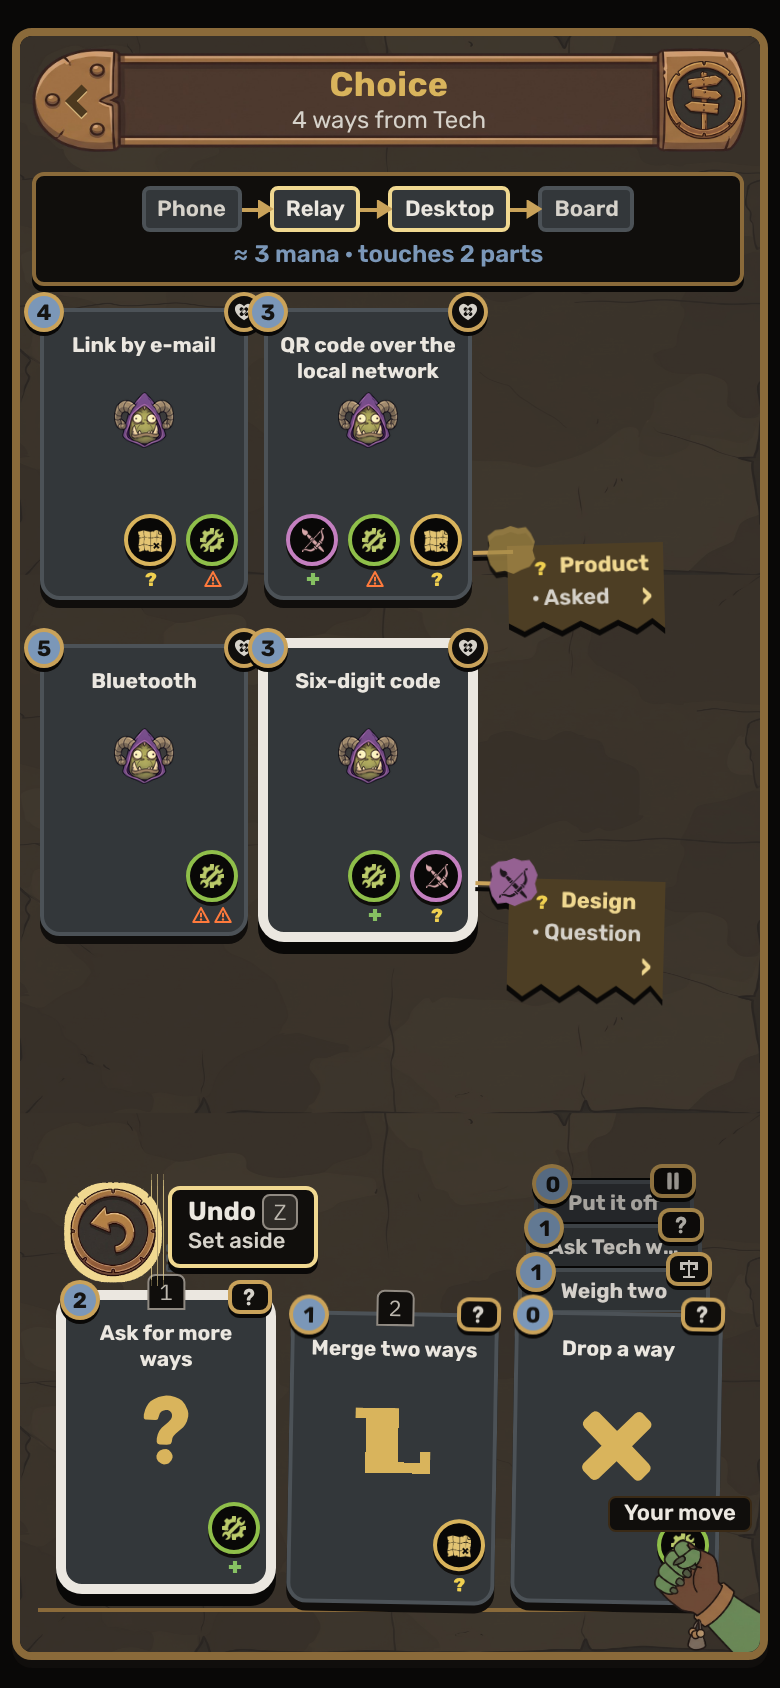
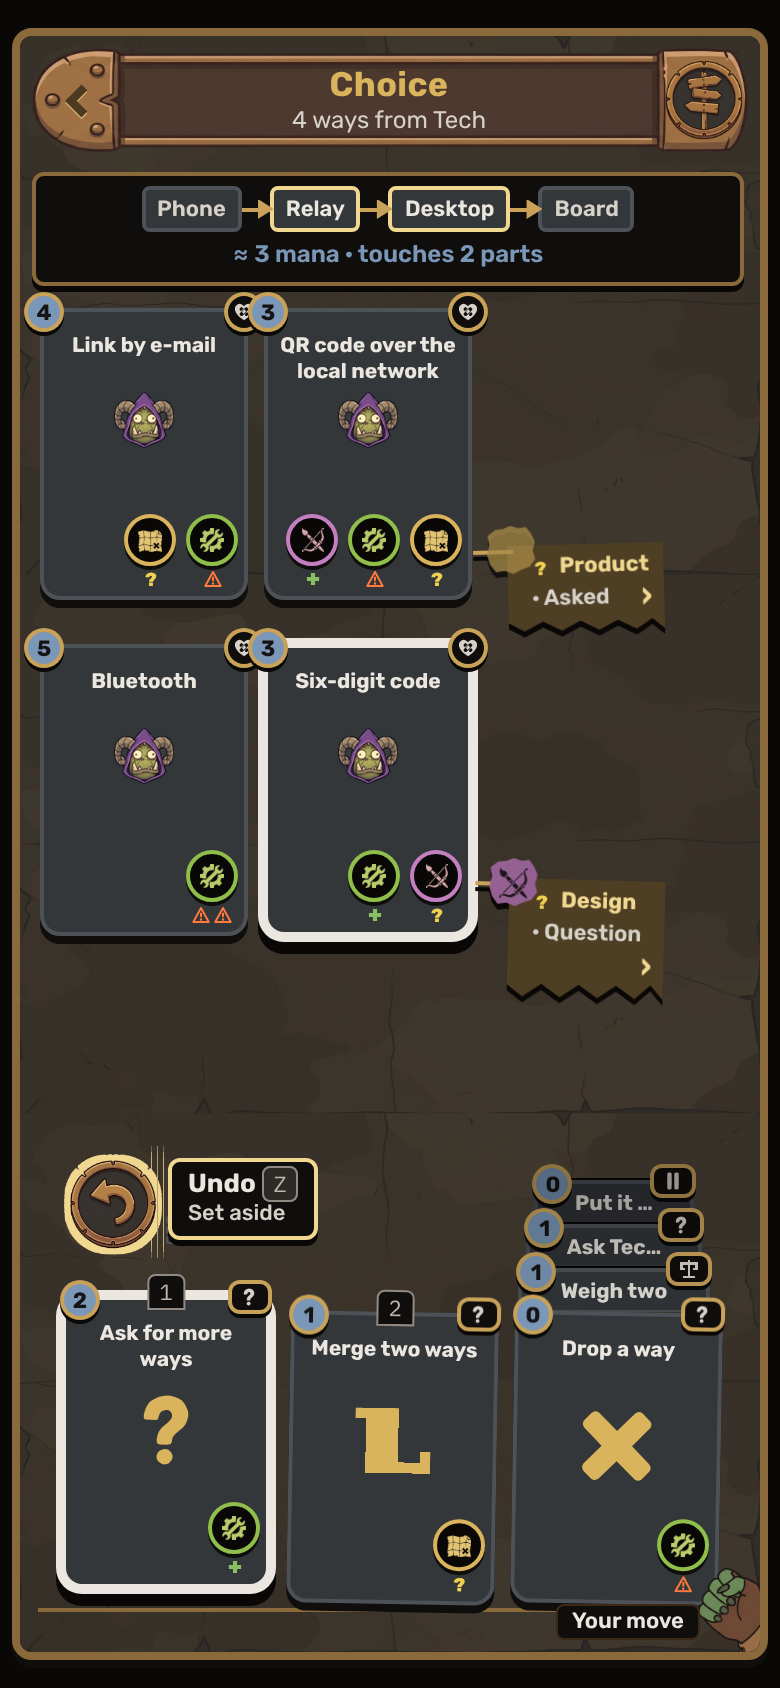
Mat mockups, final polish: Discussion and Choice (gem gaps, the undo plate, the phone's fist and fan clear of the cards)
Claude-Session: https://claude.ai/code/session_01MCU3dnmwpxzAdFr5WE7TTZ

Changed region(s): [[0.0615, 0.6777, 0.4308, 0.7701], [0.7077, 0.8626, 0.9846, 0.9858], [0.7077, 0.7085, 0.8615, 0.7701]]

diff --git a/docs/mockups/mat-scenes/discussion.html b/docs/mockups/mat-scenes/discussion.html
@@ -34,10 +34,10 @@ body[data-state="undo"] .undo .uc { outline: 3px solid var(--ork-gilt-hi); outli
 body[data-state="undo"] .undo .uw { display: none; }
 body[data-state="undo"] .uplate { display: block; }
 body[data-state="undo"] .foot, body[data-state="pick"] .foot { display: none; }
-body[data-face="phone"] .undo { left: 21px; bottom: 186px; width: 52px; font-size: 11px; line-height: 13px; }
+body[data-face="phone"] .undo { left: 21px; bottom: 200px; width: 52px; font-size: 11px; line-height: 13px; }
 body[data-face="phone"] .undo .uc { width: 44px; height: 44px; border-width: 3px; }
 body[data-face="phone"] .undo .uc svg { width: 24px; height: 24px; }
-body[data-face="phone"] .uplate { left: 74px; bottom: 192px; padding: 3px 8px 4px; font-size: 13px; line-height: 16px; }
+body[data-face="phone"] .uplate { left: 74px; bottom: 206px; padding: 3px 8px 4px; font-size: 13px; line-height: 16px; }
 body[data-face="phone"] .uplate small { font-size: 11px; line-height: 14px; }
 .uplate .sm { display: none; } body[data-face="phone"] .uplate .sm { display: inline; } body[data-face="phone"] .uplate .lg { display: none; }
 
@@ -154,7 +154,7 @@ body[data-face="phone"] .row4 { left: 0; gap: 8px; padding-top: 14px; }
 body[data-face="phone"] .row4 .gw.tl { left: -3px; } body[data-face="phone"] .row4 .gw.tr { right: -3px; }
 body[data-face="phone"] .row4 .drum .strip .gw.tl { left: -3px; } body[data-face="phone"] .row4 .drum .strip .gw.tr { right: -3px; }
 body[data-face="phone"] .foot { display: none; }
-body[data-face="phone"] .pilebox { left: 52px; bottom: 190px; }
+body[data-face="phone"] .pilebox { left: 52px; bottom: 204px; }
 body[data-face="phone"] .rail { bottom: 20px; left: -12px; right: -12px; }
 body[data-face="desk"] .only-phone, body[data-face="phone"] .only-desk { display: none; }
 
@@ -250,28 +250,28 @@ body[data-face="phone"] .me { width: 60px; height: 100px; }
 body[data-face="phone"] .me .handimg.rest { height: 84px; } body[data-face="phone"] .me .handimg.open { height: 80px; }
 body[data-face="phone"] .me .line { display: block; right: 4px; bottom: 192px; font-size: 11px; line-height: 14px; padding: 1px 7px; }
 body[data-face="phone"][data-state="fab"] .me { z-index: 14; width: 270px; height: 300px; }
-body[data-face="phone"][data-state="fab"] .me .line { right: 4px; bottom: 196px; }
+body[data-face="phone"][data-state="fab"] .me .line { right: 4px; bottom: 6px; }
 body[data-face="phone"] .fab .ob { width: 80px; font-size: 11px; line-height: 13px; }
 body[data-face="phone"] .fab .ob img { height: 46px; }
 body[data-face="phone"] .fab .ob .w { padding: 0 5px; }
 body[data-face="phone"] .fab .ob kbd, body[data-face="phone"] .fab .ob .full { display: none; }
 body[data-face="phone"] .fab .ob .short { display: inline; }
-body[data-face="phone"] .fab .o1 { left: 4px; bottom: 90px; } body[data-face="phone"] .fab .o2 { left: 94px; bottom: 120px; } body[data-face="phone"] .fab .o3 { left: 184px; bottom: 90px; }
+body[data-face="phone"] .fab .o1 { left: 4px; bottom: 218px; } body[data-face="phone"] .fab .o2 { left: 94px; bottom: 246px; } body[data-face="phone"] .fab .o3 { left: 184px; bottom: 218px; }
 body[data-face="desk"] .fab .short { display: none; }
 
 /* ---- round 10 ---- */
 .drum .strip { height: 22px; width: calc(100% - var(--n, 1) * 8%); filter: brightness(calc(1 - var(--n, 1) * .1)); }
-.drum .strip .bt { height: 22px; padding: 3px 9px 0; font-size: 10.5px; line-height: 14px; }
+.drum .strip .bt { height: 22px; padding: 3px 16px 0; font-size: 10px; line-height: 14px; }
 .drum .edge { position: absolute; bottom: 3px; width: 3px; height: 138px; background: var(--ork-card); border: 1px solid var(--ork-card-frame); border-radius: 2px; z-index: 1; }
 .drum .edge.l { left: calc(var(--k) * -3px); } .drum .edge.r { right: calc(var(--k) * -3px); }
 .drumplate { display: none; }
 .drum .card .key { display: none; }
 body[data-face="phone"] .me { z-index: 14; width: 60px; height: 100px; }
-body[data-face="phone"] .me .handimg.rest { height: 56px; }
-body[data-face="phone"] .me .line { right: 4px; bottom: 60px; }
+body[data-face="phone"] .me .handimg.rest { height: 56px; right: -22px; bottom: -14px; }
+body[data-face="phone"] .me .line { right: 30px; bottom: 6px; }
 .me .l1 .spc { display: inline; } body[data-face="phone"] .me .l1 .spc { display: none; }
 body[data-face="phone"][data-state="fab"] .me { width: 270px; height: 300px; }
-body[data-face="phone"][data-state="fab"] .me .line { right: 4px; bottom: 196px; }
+body[data-face="phone"][data-state="fab"] .me .line { right: 4px; bottom: 6px; }
 /* phone: a note is its header line only */
 .note .nsum { display: none; }
 body[data-face="phone"] .note .paper { display: none; }
@@ -360,7 +360,7 @@ body[data-face="phone"][data-state="differ"] .phonecard { top: 72px; }
 .rows .pair { position: relative; display: flex; flex-direction: column; gap: 6px; }
 body[data-state="differ"] .rows .pair { gap: 10px; }
 body[data-state="differ"] .rows .pair::before { content: ""; position: absolute; left: 20px; top: 20px; width: 0; height: 0; }
-body[data-face="phone"][data-state="differ"] .rows .swords { display: block; left: 20px; top: 71px; width: 28px; height: 28px; }
+body[data-face="phone"][data-state="differ"] .rows .swords { display: block; left: 322px; top: 58px; width: 28px; height: 28px; }
 body[data-face="phone"][data-state="differ"] .rows .swords i { inset: 4px; }
 body[data-face="phone"][data-state="differ"] .balloon { top: 226px; left: 8px; right: 8px; translate: none; gap: 8px; }
 body[data-face="phone"] .balloon .tt { --tk: 34px; }

diff --git a/docs/mockups/mat-scenes/choice.html b/docs/mockups/mat-scenes/choice.html
@@ -34,10 +34,10 @@ body[data-state="undo"] .undo .uc { outline: 3px solid var(--ork-gilt-hi); outli
 body[data-state="undo"] .undo .uw { display: none; }
 body[data-state="undo"] .uplate { display: block; }
 body[data-state="undo"] .foot, body[data-state="pick"] .foot { display: none; }
-body[data-face="phone"] .undo { left: 21px; bottom: 186px; width: 52px; font-size: 11px; line-height: 13px; }
+body[data-face="phone"] .undo { left: 21px; bottom: 200px; width: 52px; font-size: 11px; line-height: 13px; }
 body[data-face="phone"] .undo .uc { width: 44px; height: 44px; border-width: 3px; }
 body[data-face="phone"] .undo .uc svg { width: 24px; height: 24px; }
-body[data-face="phone"] .uplate { left: 74px; bottom: 192px; padding: 3px 8px 4px; font-size: 13px; line-height: 16px; }
+body[data-face="phone"] .uplate { left: 74px; bottom: 206px; padding: 3px 8px 4px; font-size: 13px; line-height: 16px; }
 body[data-face="phone"] .uplate small { font-size: 11px; line-height: 14px; }
 .uplate .sm { display: none; } body[data-face="phone"] .uplate .sm { display: inline; } body[data-face="phone"] .uplate .lg { display: none; }
 
@@ -154,7 +154,7 @@ body[data-face="phone"] .row4 { left: 0; gap: 8px; padding-top: 14px; }
 body[data-face="phone"] .row4 .gw.tl { left: -3px; } body[data-face="phone"] .row4 .gw.tr { right: -3px; }
 body[data-face="phone"] .row4 .drum .strip .gw.tl { left: -3px; } body[data-face="phone"] .row4 .drum .strip .gw.tr { right: -3px; }
 body[data-face="phone"] .foot { display: none; }
-body[data-face="phone"] .pilebox { left: 52px; bottom: 190px; }
+body[data-face="phone"] .pilebox { left: 52px; bottom: 204px; }
 body[data-face="phone"] .rail { bottom: 20px; left: -12px; right: -12px; }
 body[data-face="desk"] .only-phone, body[data-face="phone"] .only-desk { display: none; }
 
@@ -250,28 +250,28 @@ body[data-face="phone"] .me { width: 60px; height: 100px; }
 body[data-face="phone"] .me .handimg.rest { height: 84px; } body[data-face="phone"] .me .handimg.open { height: 80px; }
 body[data-face="phone"] .me .line { display: block; right: 4px; bottom: 192px; font-size: 11px; line-height: 14px; padding: 1px 7px; }
 body[data-face="phone"][data-state="fab"] .me { z-index: 14; width: 270px; height: 300px; }
-body[data-face="phone"][data-state="fab"] .me .line { right: 4px; bottom: 196px; }
+body[data-face="phone"][data-state="fab"] .me .line { right: 4px; bottom: 6px; }
 body[data-face="phone"] .fab .ob { width: 80px; font-size: 11px; line-height: 13px; }
 body[data-face="phone"] .fab .ob img { height: 46px; }
 body[data-face="phone"] .fab .ob .w { padding: 0 5px; }
 body[data-face="phone"] .fab .ob kbd, body[data-face="phone"] .fab .ob .full { display: none; }
 body[data-face="phone"] .fab .ob .short { display: inline; }
-body[data-face="phone"] .fab .o1 { left: 4px; bottom: 90px; } body[data-face="phone"] .fab .o2 { left: 94px; bottom: 120px; } body[data-face="phone"] .fab .o3 { left: 184px; bottom: 90px; }
+body[data-face="phone"] .fab .o1 { left: 4px; bottom: 218px; } body[data-face="phone"] .fab .o2 { left: 94px; bottom: 246px; } body[data-face="phone"] .fab .o3 { left: 184px; bottom: 218px; }
 body[data-face="desk"] .fab .short { display: none; }
 
 /* ---- round 10 ---- */
 .drum .strip { height: 22px; width: calc(100% - var(--n, 1) * 8%); filter: brightness(calc(1 - var(--n, 1) * .1)); }
-.drum .strip .bt { height: 22px; padding: 3px 9px 0; font-size: 10.5px; line-height: 14px; }
+.drum .strip .bt { height: 22px; padding: 3px 16px 0; font-size: 10px; line-height: 14px; }
 .drum .edge { position: absolute; bottom: 3px; width: 3px; height: 138px; background: var(--ork-card); border: 1px solid var(--ork-card-frame); border-radius: 2px; z-index: 1; }
 .drum .edge.l { left: calc(var(--k) * -3px); } .drum .edge.r { right: calc(var(--k) * -3px); }
 .drumplate { display: none; }
 .drum .card .key { display: none; }
 body[data-face="phone"] .me { z-index: 14; width: 60px; height: 100px; }
-body[data-face="phone"] .me .handimg.rest { height: 56px; }
-body[data-face="phone"] .me .line { right: 4px; bottom: 60px; }
+body[data-face="phone"] .me .handimg.rest { height: 56px; right: -22px; bottom: -14px; }
+body[data-face="phone"] .me .line { right: 30px; bottom: 6px; }
 .me .l1 .spc { display: inline; } body[data-face="phone"] .me .l1 .spc { display: none; }
 body[data-face="phone"][data-state="fab"] .me { width: 270px; height: 300px; }
-body[data-face="phone"][data-state="fab"] .me .line { right: 4px; bottom: 196px; }
+body[data-face="phone"][data-state="fab"] .me .line { right: 4px; bottom: 6px; }
 /* phone: a note is its header line only */
 .note .nsum { display: none; }
 body[data-face="phone"] .note .paper { display: none; }
